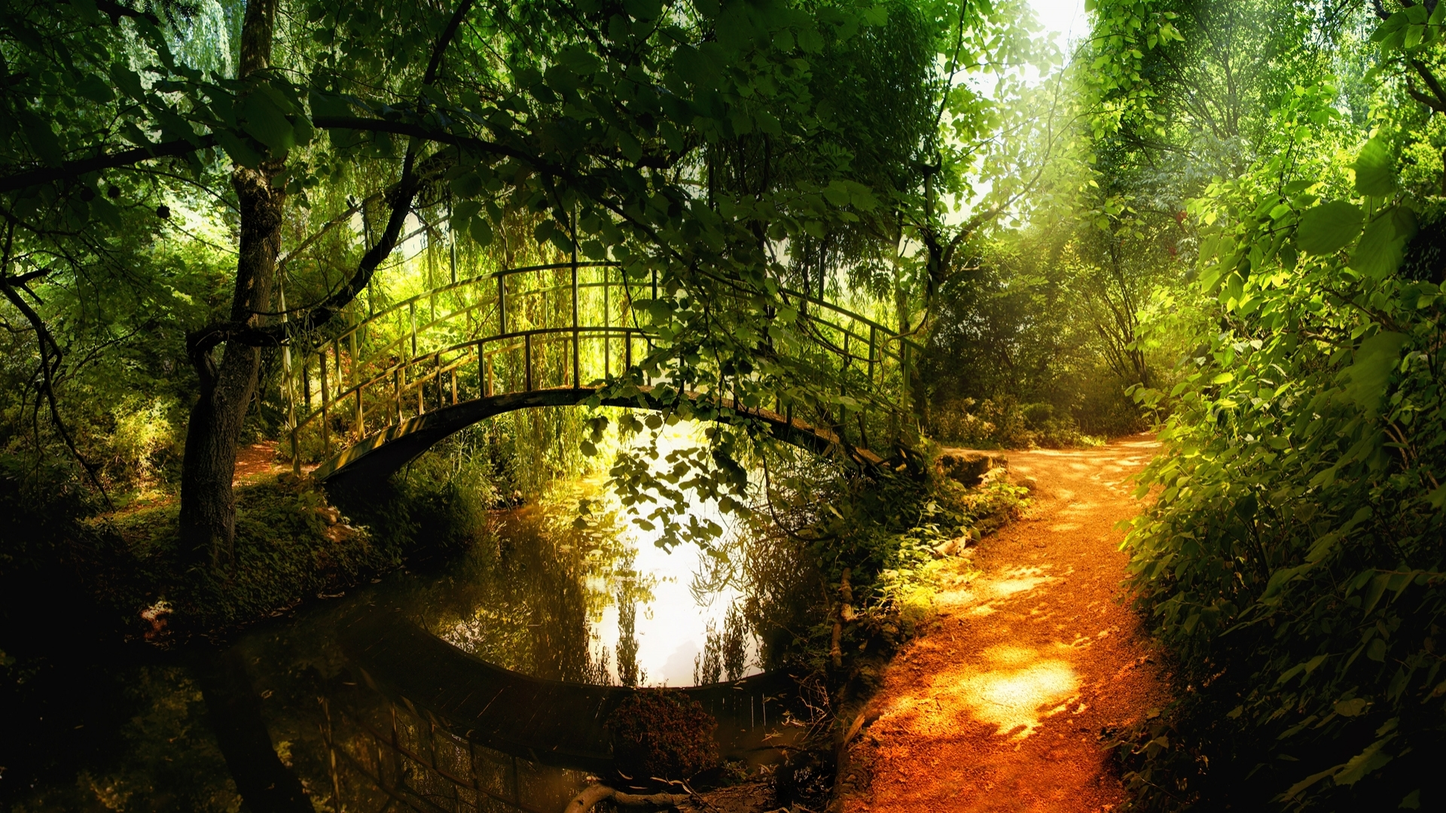
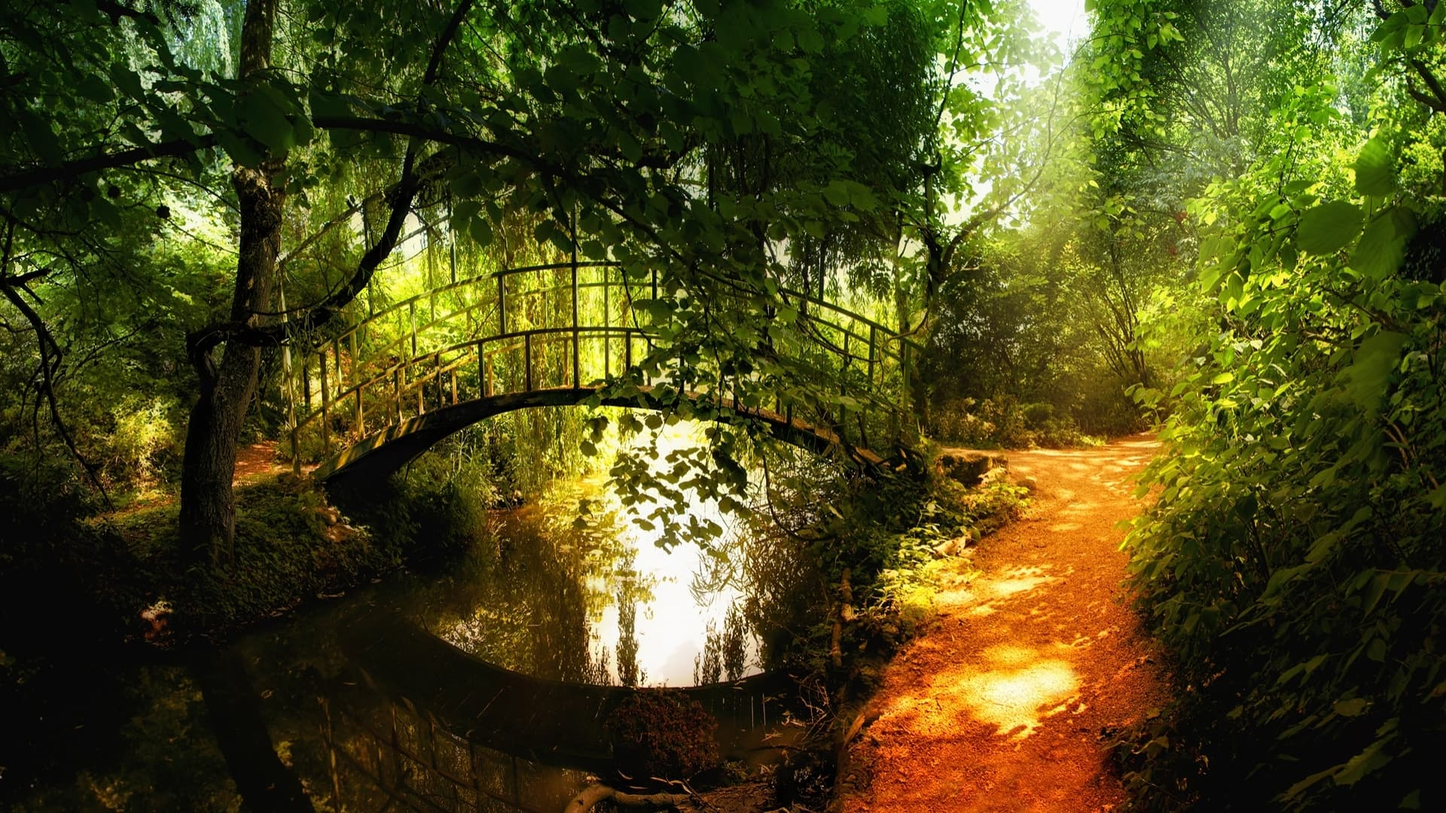
se reduce la imagen mas grande

Changed region(s): [[0.9062, 0.0, 0.9375, 0.0611]]

diff --git a/index.html b/index.html
@@ -14,15 +14,15 @@
       <div>
         <ul>
           <li><a href="index.html">Home</a></li>
-          <li><a href="./html/lenguas.html">Lenguas</a></li>
-          <li><a href="./html/torrents.html">Torrents</a></li>
-          <li><a href="./html/software.html">Software</a></li>
-          <li><a href="./html/chans.html">Chans</a></li>
-          <li><a href="./html/U.html">La U</a></li>
+          <li><a href="./html/lenguas.html" id="lenguas">Lenguas</a></li>
+          <li><a href="./html/torrents.html" id="torrents">Torrents</a></li>
+          <li><a href="./html/software.html" id="software">Software</a></li>
+          <li><a href="./html/chans.html" id="chans">Chans</a></li>
+          <li><a href="./html/U.html" id="U">La U</a></li>
         </ul>
       </div>
       <div class="todo">
-       <div class="margin1">
+       <div class="margin1" id="all">
         <div id="dia"></div>
         <div id="horaFecha"></div>
         <form method="POST" action="https://www.startpage.com/do/asearch" >

diff --git a/js/clock.js b/js/clock.js
@@ -15,6 +15,6 @@ function main( )
   $(".todo").hide( );
   startTime();
   var images = ['image1.jpg', 'image2.jpg', 'image3.jpg', 'image4.jpg', 'image5.jpg', 'image6.jpg', 'image7.jpg', 'image8.jpg', 'image9.jpg', 'image10.jpg'];
-  $('html').css({'background-image': 'url(images/' + images[Math.floor(Math.random() * images.length)] + ')'});
+    $('html').css({'background-image': 'url(images/' + images[Math.floor(Math.random() * images.length)] + ')'});
   $(".todo").fadeIn(500);
 }
